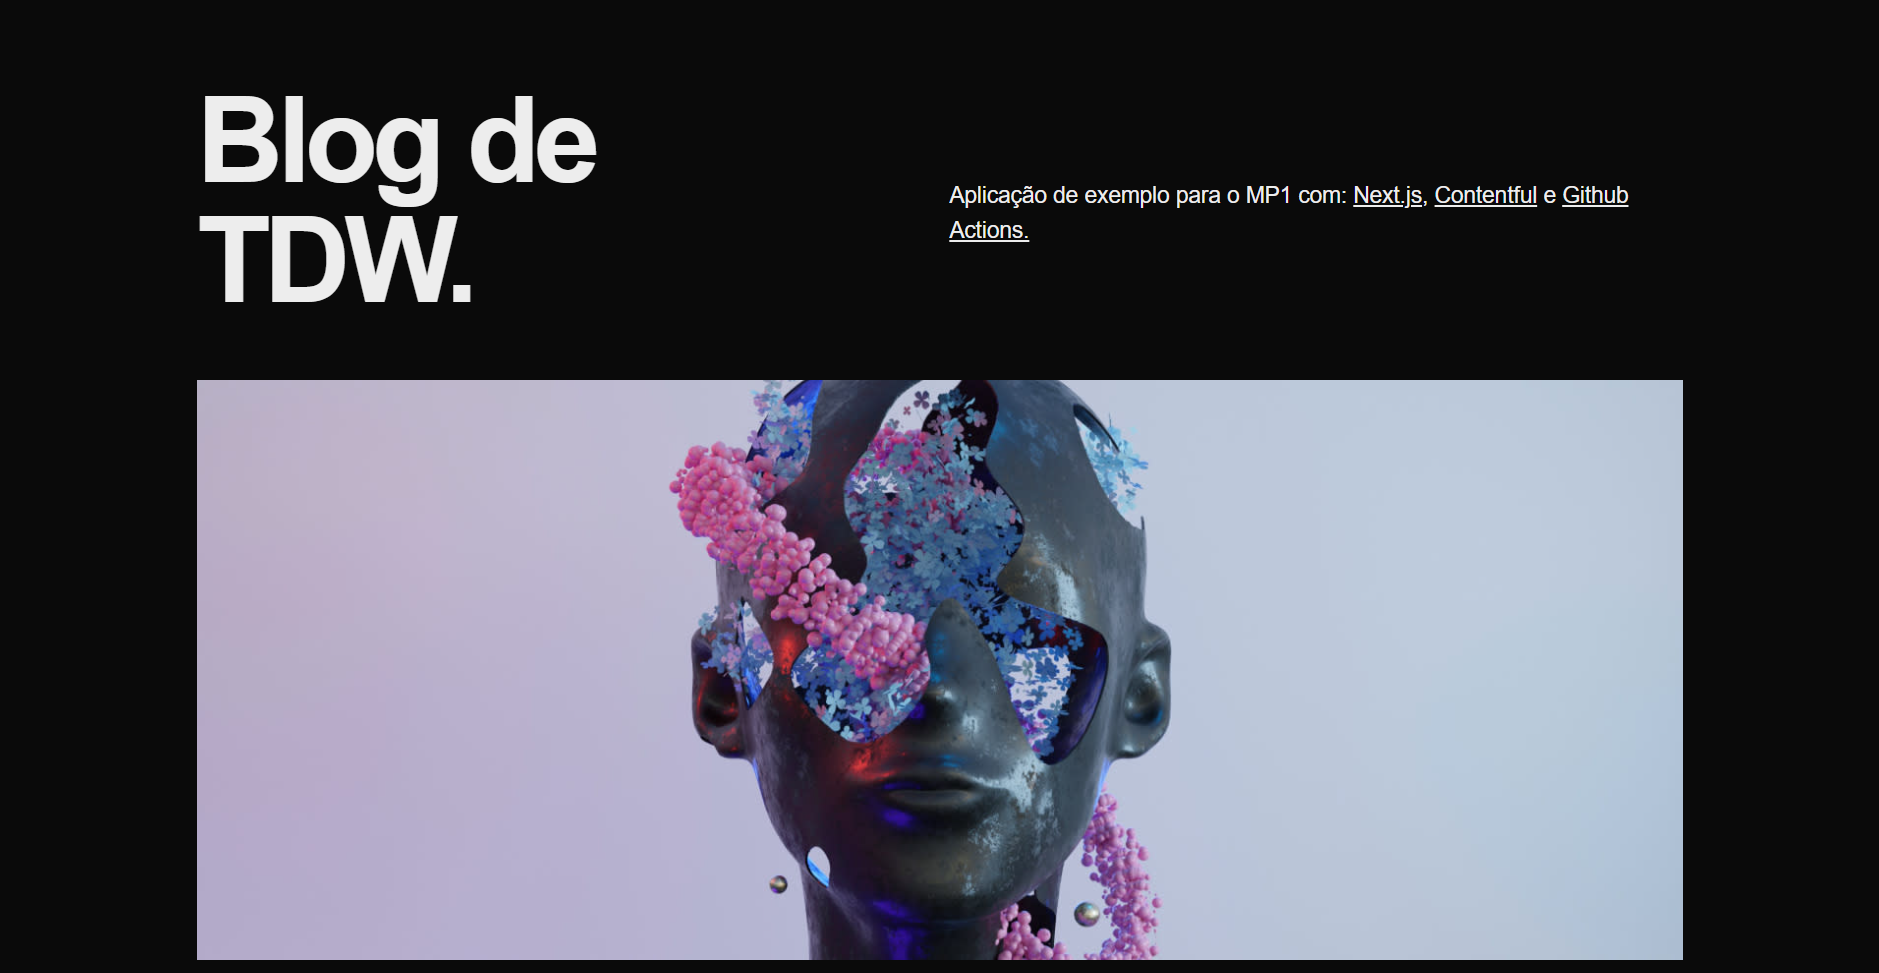
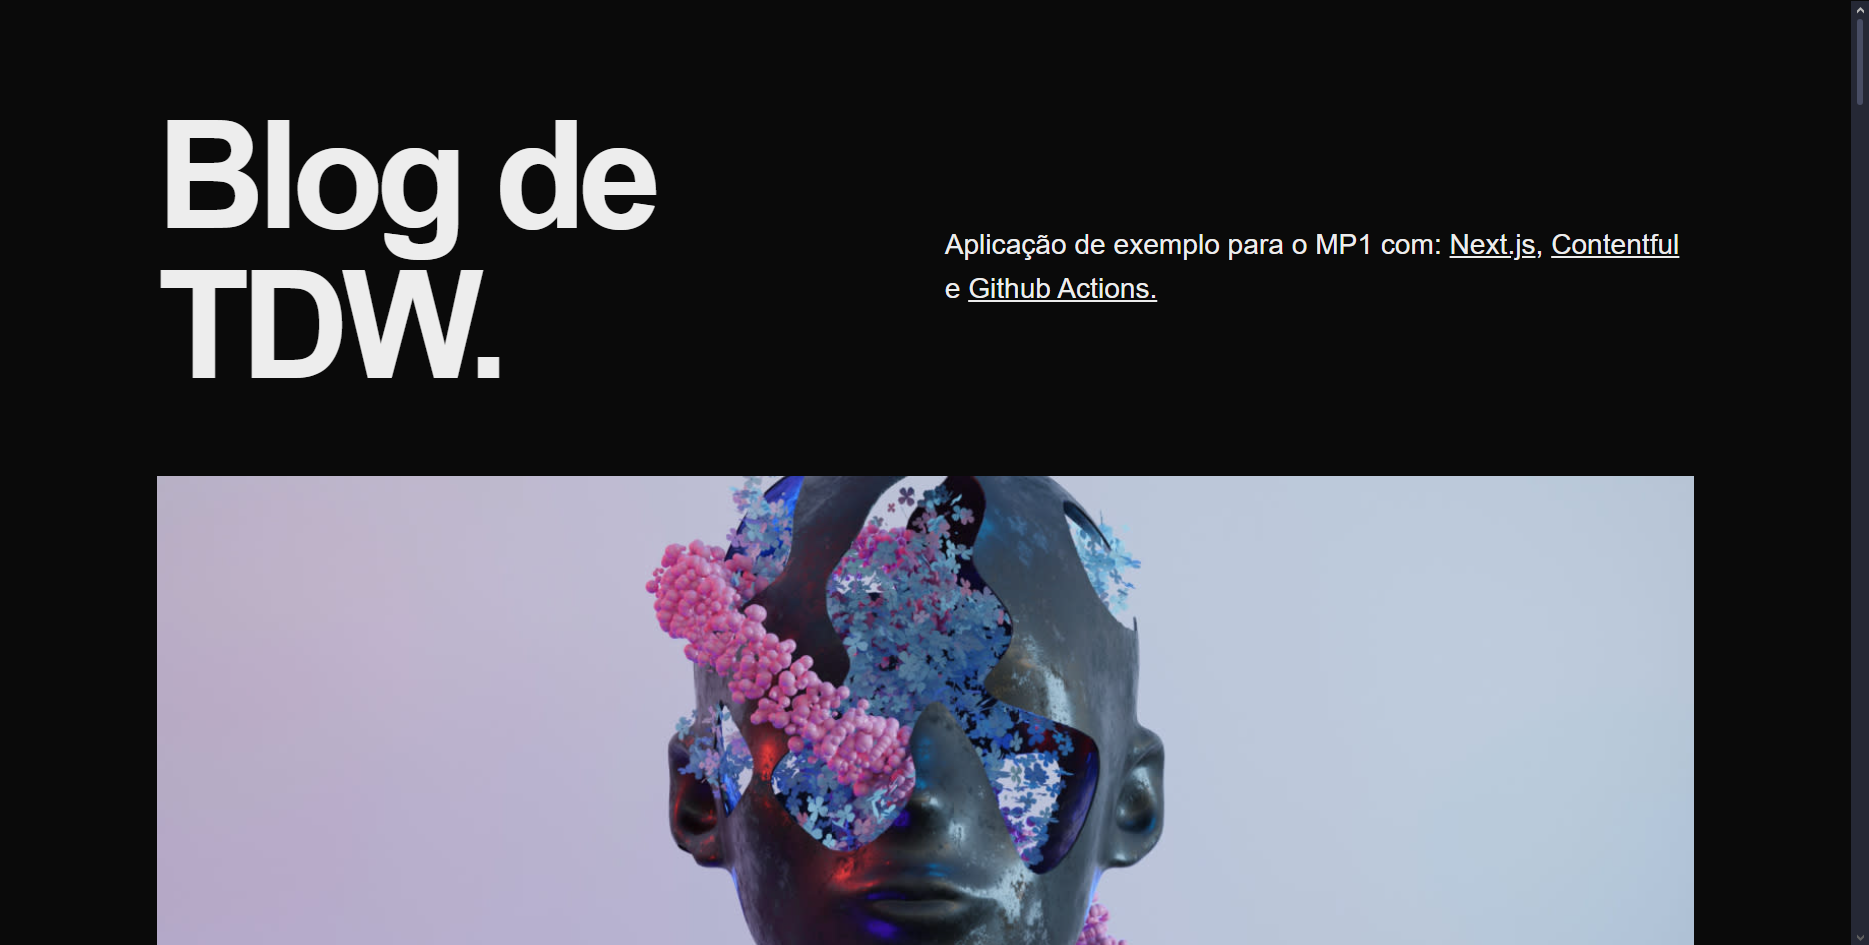
Update project details and replace images in ProjectsCards component

Changed region(s): [[0.0621, 0.0921, 0.931, 1.0], [0.4965, 0.1841, 0.8999, 0.3376], [0.993, 0.0, 1.0, 1.0]]

diff --git a/src/Components/ProjectsCards.js b/src/Components/ProjectsCards.js
@@ -53,7 +53,7 @@ const ProjectsCards = () => {
     },
     {
       title: "TDW Blog",
-      image: require("../Imgs/Projects/Movie_Time.png"),
+      image: require("../Imgs/Projects/Contetful.png"),
       description:
         "In this solo project, I took a already designed web application and made it work with a Content Management System (Contentful) and also put into practice some knowledge about pipelines, CMS integrations, Cron Jobs and a few other concepts. I cannot take credit for its appearance as its goal was only to see and to evaluate my CI/CD capacities. This project was deploy twice. On with Github Actions workflow and one with Circle CI workflow.",
       languages: [
@@ -70,7 +70,7 @@ const ProjectsCards = () => {
         "Github Actions",
         "Circle CI",
       ],
-      link: "https://mp2tomassousa.vercel.app/",
+      link: "https://miniprojeto-tdw-githubactions.vercel.app/",
     },
     {
       title: "Movie Time",
@@ -154,6 +154,7 @@ const ProjectsCards = () => {
                         <span key={index} className="mr-2">
                           {" "}
                           {language}{" "}
+                          {index < project.languages.length - 1 && " |"}
                         </span>
                       ))}
                     </p>
